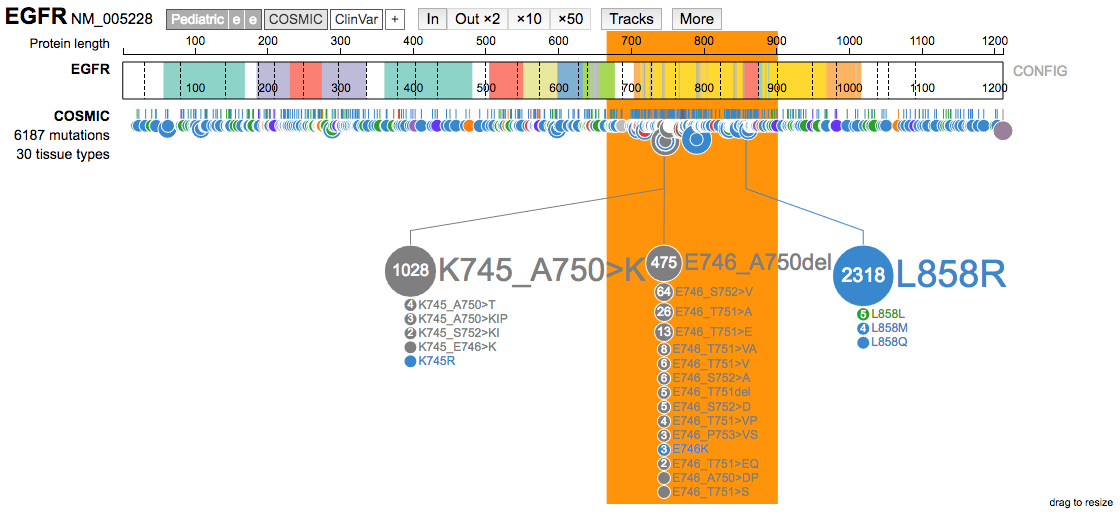
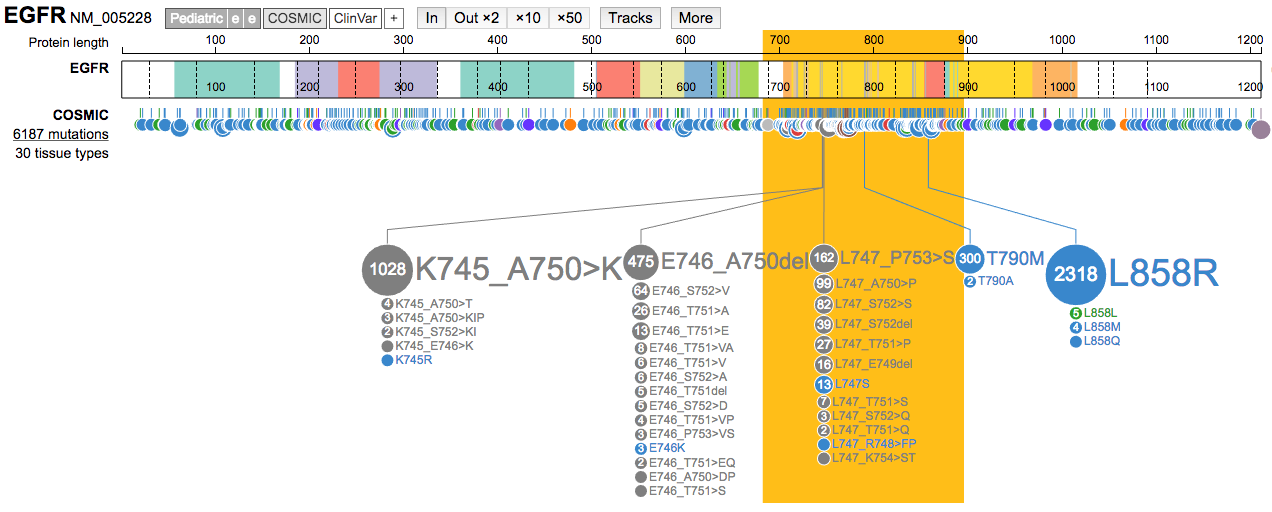
add and update screenshots

diff --git a/_posts/0001-07-01-ProteinPaint.md b/_posts/0001-07-01-ProteinPaint.md
@@ -44,7 +44,10 @@ Go through the following exercise to explore the functionality of this resource:
 
 {% include figure.html image="/assets/proteinpaint/proteinpaint5.png" width="1200" %}
 
-* Use the `+ add protein domain` button (bottom left) to add a custom domain of interest.
+* Clear the highlighted region.  Now use the `+ add protein domain` button (bottom left) to add a custom domain of interest. e.g. `MUTATION HOTSPOT ; 700 900; red`
+
+{% include figure.html image="/assets/proteinpaint/proteinpaint6.png" width="1200" %}
+
 * Mouse over the gene diagram to view details on individual domains and amino acid positions.
 * Select specific variants to learn more about what diseases they occur in. For example, load *ERBB2* and the COSMIC data track. Two of the most common mutations are **S310F** and **L755S**. Select both of these. Which is more common in breast cancer? Use the `List` option to learn more about individual variant observations.
 * Use the Microarray and RNA-seq expression tracks (if missing, these appear as <em>e</em> in the track list) to determine what kind of childhood tumors tend to have high *ERBB2* expression.
